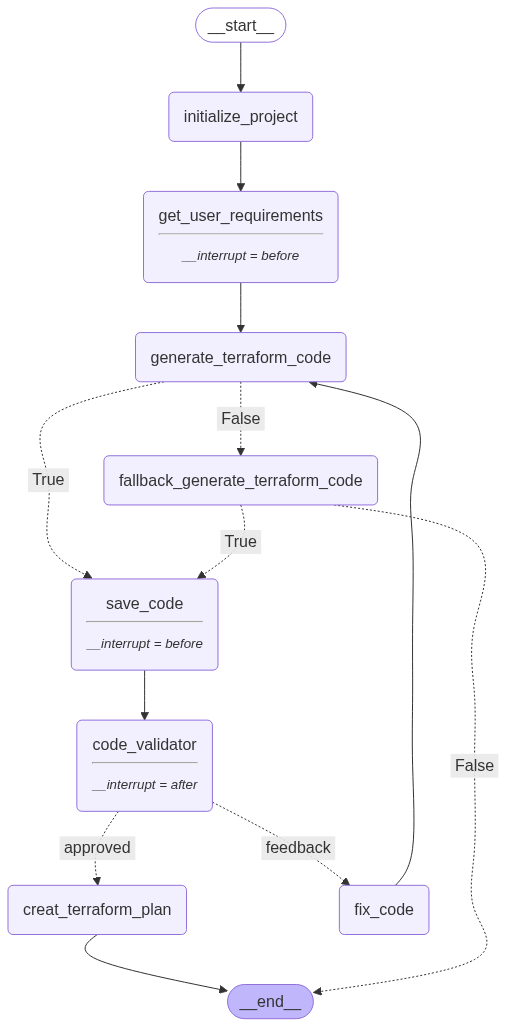
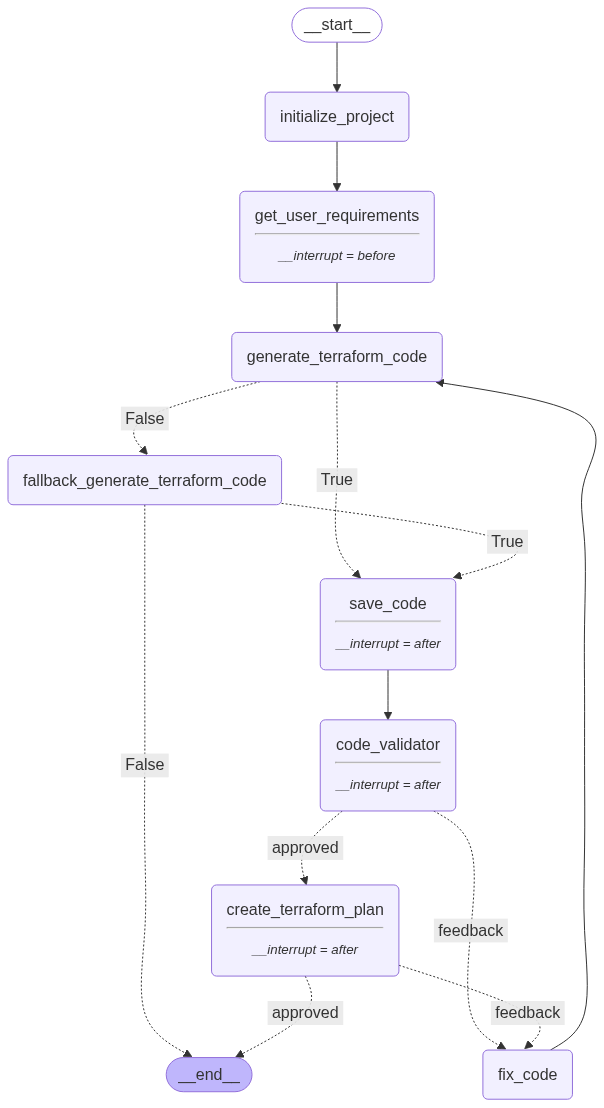
Code plan router

diff --git a/src/infra_genie/graph/graph_builder.py b/src/infra_genie/graph/graph_builder.py
@@ -79,43 +79,53 @@ class GraphBuilder:
                 "feedback": "fix_code"
             }
         )
+        
         self.graph_builder.add_edge("fix_code","generate_terraform_code")
-        self.graph_builder.add_edge("create_terraform_plan", END)
-    
-         
         
-    def setup_graph(self):
-        """
-        Sets up the graph
-        """
-        self.build_infra_graph()
-        return self.graph_builder.compile(
-           interrupt_before=[
-                'get_user_requirements'
-            ],
-            interrupt_after=[
-                'save_code',
-                'code_validator'
-            ],checkpointer=self.memory
+        self.graph_builder.add_conditional_edges(
+            "create_terraform_plan",
+            self.code_validator_node.terraform_plan_router,
+            {
+                "approved": END,
+                "feedback": "fix_code"
+            }
         )
+    
         
-             
     # def setup_graph(self):
     #     """
     #     Sets up the graph
     #     """
     #     self.build_infra_graph()
-    #     graph =self.graph_builder.compile(
-    #         interrupt_before=[
+    #     return self.graph_builder.compile(
+    #        interrupt_before=[
     #             'get_user_requirements'
     #         ],
     #         interrupt_after=[
     #             'save_code',
-    #             'code_validator'
+    #             'code_validator',
+    #             'create_terraform_plan'
     #         ],checkpointer=self.memory
     #     )
-    #     self.save_graph_image(graph)         
-    #     return graph
+        
+             
+    def setup_graph(self):
+        """
+        Sets up the graph
+        """
+        self.build_infra_graph()
+        graph =self.graph_builder.compile(
+            interrupt_before=[
+                'get_user_requirements'
+            ],
+            interrupt_after=[
+                'save_code',
+                'code_validator',
+                'create_terraform_plan'
+            ],checkpointer=self.memory
+        )
+        self.save_graph_image(graph)         
+        return graph
     
     
     def save_graph_image(self,graph):

diff --git a/src/infra_genie/nodes/code_validator_node.py b/src/infra_genie/nodes/code_validator_node.py
@@ -149,21 +149,30 @@ class CodeValidatorNode:
             )
             
             logger.debug(f"Terraform Plan: {plan_result}")
+            logger.success(f"Terraform Plan Stdout: {plan_result.stdout}")
+            logger.error(f"Terraform Plan stderr: {plan_result.stderr}")
             
-            # Convert the plan to JSON format for easy parsing
-            json_plan_result = subprocess.run(
-                ["terraform", "show", "-json", "tfplan"],
-                cwd=self.base_directory,
-                capture_output=True,
-                text=True
-            )
-            
-            logger.debug(f"Terraform Plan Json: {json_plan_result}")
+            if plan_result.returncode == 0:
+                state.is_plan_success = True
+                
+                # Convert the plan to JSON format for easy parsing
+                json_plan_result = subprocess.run(
+                    ["terraform", "show", "-json", "tfplan"],
+                    cwd=self.base_directory,
+                    capture_output=True,
+                    text=True
+                )
+                logger.success(f"Terraform Plan Json: {json_plan_result}")
+                state.plan_summary = "" ## TODO
+                
+            else:
+                state.is_plan_success = False
+                state.plan_error = plan_result.stderr
             
             return state
         
         except Exception as e:
-            state.plan_success = False
+            state.is_plan_success = False
             state.plan_error = str(e)
             raise Exception(f"Terraform Plan Error: {str(e)}")
     
@@ -172,6 +181,8 @@ class CodeValidatorNode:
         """
             Evaluates terraform plan
         """
-        # return state.get("is_terraform_plan_valid", False)  # default to False
-        pass
+        if state.is_plan_success:
+            return "approved"
+        else:
+            return "feedback"
     

diff --git a/src/infra_genie/graph/graph_executor.py b/src/infra_genie/graph/graph_executor.py
@@ -75,7 +75,7 @@ class GraphExecutor:
                 saved_state.code_review_status = status
                 
                 ## For testing only
-                # saved_state.is_code_valid = True
+                saved_state.is_code_valid = True
                 
                 saved_state.next_node = const.GENERATE_CODE if status == "feedback" else const.GENERATE_PLAN
                 

diff --git a/src/infra_genie/state/infra_genie_state.py b/src/infra_genie/state/infra_genie_state.py
@@ -142,7 +142,7 @@ class InfraGenieState(BaseModel):
     terraform_plan_validation_feedback: Optional[str] = None
     plan_data: Optional[str] = None
     plan_summary: Optional[str] = None
-    plan_success: bool = False
+    is_plan_success: bool = False
     plan_error: Optional[str] = None
     
     
